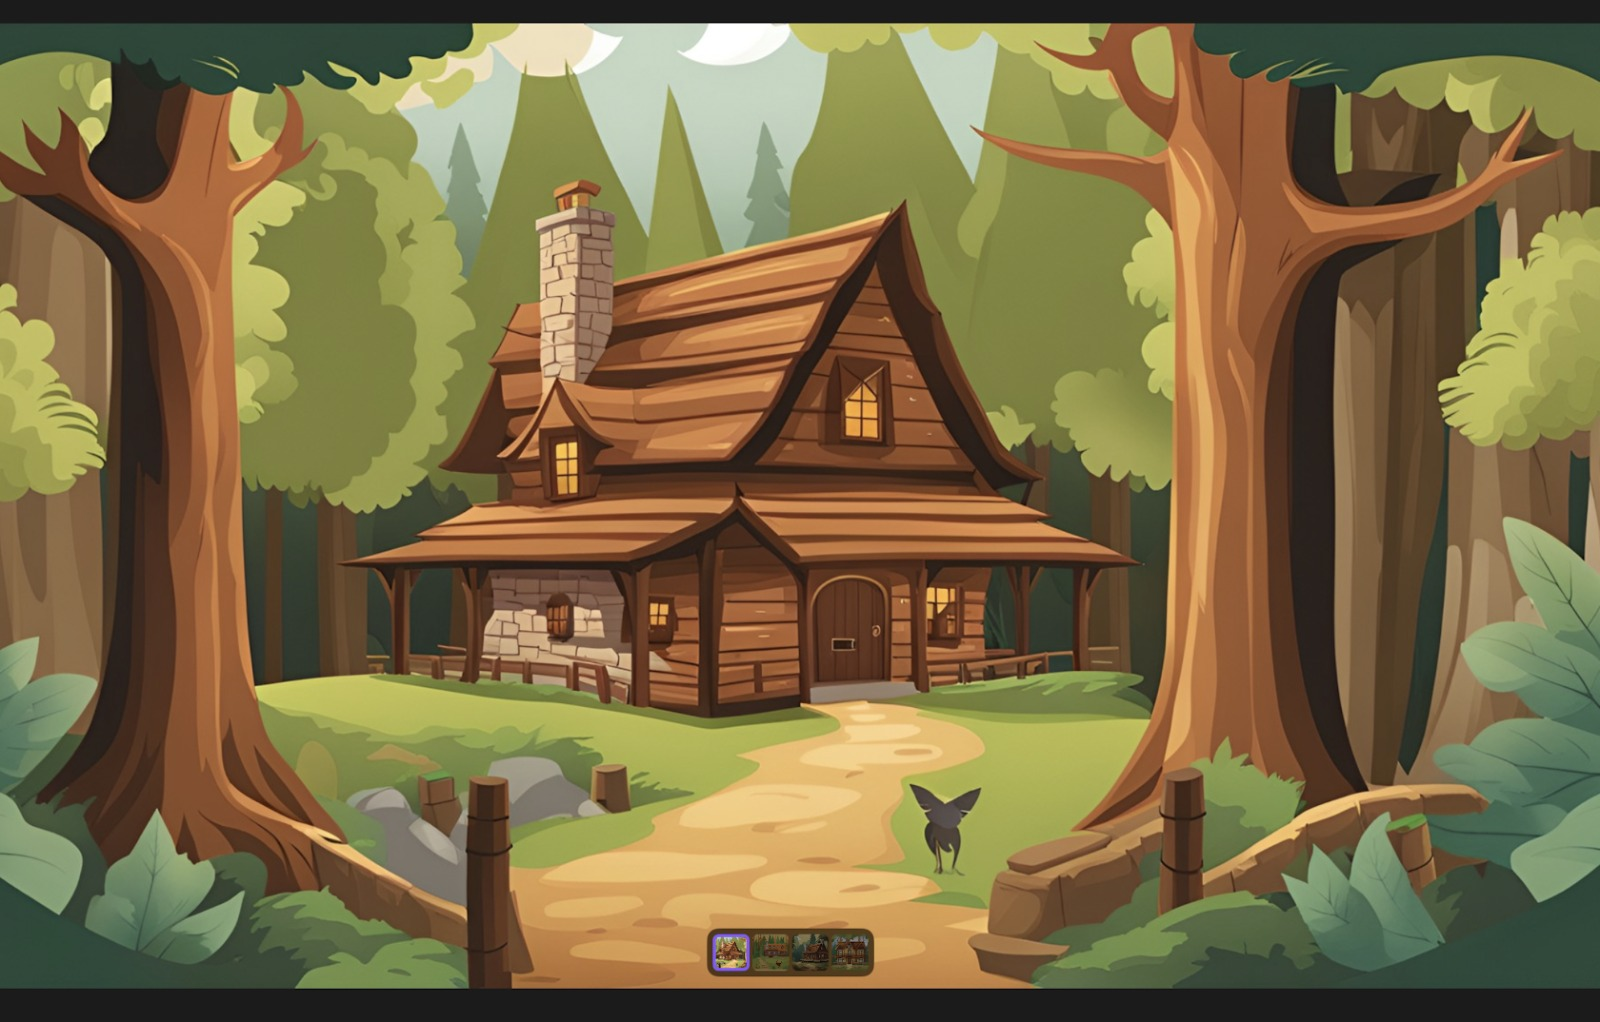
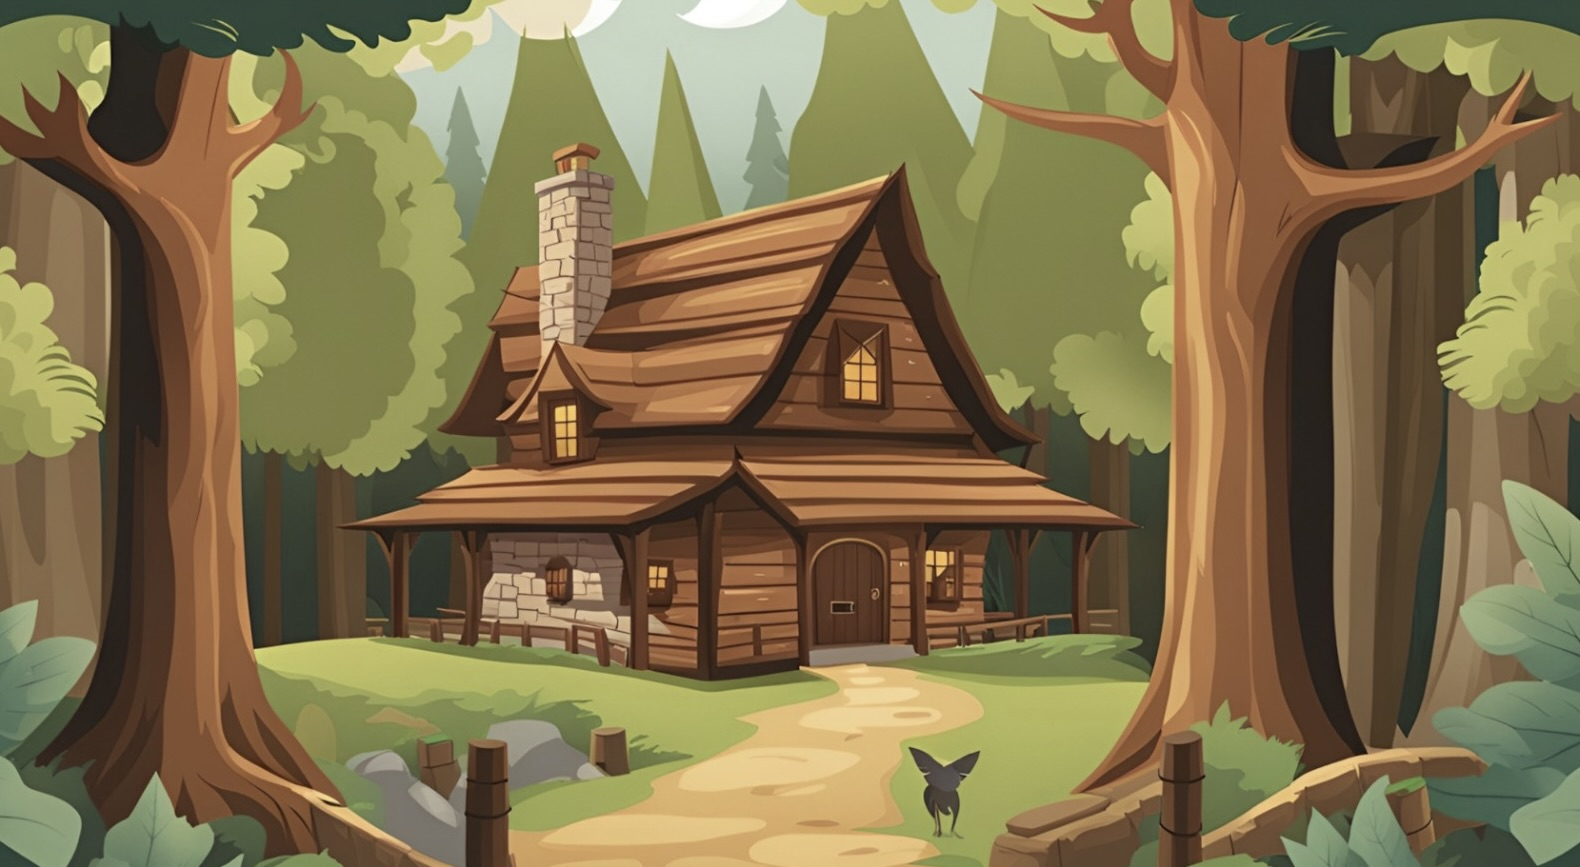
MainMenu_001
Dodanie tla, zmiana ikon i przyciskow w menu.

diff --git a/lib/src/main_menu/main_menu_screen.dart b/lib/src/main_menu/main_menu_screen.dart
@@ -22,83 +22,90 @@ class MainMenuScreen extends StatelessWidget {
     final audioController = context.watch<AudioController>();
 
     return Scaffold(
-        body: Container(
-      decoration: BoxDecoration(
-        image: DecorationImage(
-          image: AssetImage(
-              "/Users/patrykkrzemien/Documents/GitHub/Idle_Tavern_Rpg/assets/images/menu/backgroundtest.jpeg"),
-          fit: BoxFit.cover, // Dopasuj obraz do całego ekranu
+      body: Container(
+        decoration: BoxDecoration(
+          image: DecorationImage(
+            image: AssetImage(
+                "/Users/patrykkrzemien/Documents/Projekty/Idle_Tavern_Rpg/assets/images/menu/backgroundtest.jpeg"),
+            fit: BoxFit.fill,
+          ),
         ),
-      ),
-      child: ResponsiveScreen(
-        mainAreaProminence: 0.45,
-        squarishMainArea: Center(
-          child: Transform.rotate(
-            angle: -0.1,
-            child: const Text(
-              'Flutter Game Template!',
-              textAlign: TextAlign.center,
-              style: TextStyle(
-                fontFamily: 'Permanent Marker',
-                fontSize: 55,
-                height: 1,
+        child: ResponsiveScreen(
+          mainAreaProminence: 0.45,
+          squarishMainArea: Center(
+            child: Transform.rotate(
+              angle: -0.05,
+              child: SizedBox(
+                height: 800,
+                child: const Text(
+                  'Tawerna',
+                  textAlign: TextAlign.center,
+                  style: TextStyle(
+                    fontFamily: 'Permanent Marker',
+                    fontSize: 40,
+                    height: 1,
+                  ),
+                ),
               ),
             ),
           ),
-        ),
-        rectangularMenuArea: Column(
-          mainAxisAlignment: MainAxisAlignment.end,
-          children: [
-            FilledButton(
-              onPressed: () {
-                audioController.playSfx(SfxType.buttonTap);
-                GoRouter.of(context).go('/play');
-              },
-              child: const Text('Play'),
-            ),
-            _gap,
-            if (gamesServicesController != null) ...[
-              _hideUntilReady(
-                ready: gamesServicesController.signedIn,
-                child: FilledButton(
-                  onPressed: () => gamesServicesController.showAchievements(),
-                  child: const Text('Achievements'),
-                ),
-              ),
-              _gap,
-              _hideUntilReady(
-                ready: gamesServicesController.signedIn,
-                child: FilledButton(
-                  onPressed: () => gamesServicesController.showLeaderboard(),
-                  child: const Text('Leaderboard'),
-                ),
-              ),
-              _gap,
-            ],
-            FilledButton(
-              onPressed: () => GoRouter.of(context).push('/settings'),
-              child: const Text('Settings'),
-            ),
-            _gap,
-            Padding(
-              padding: const EdgeInsets.only(top: 32),
-              child: ValueListenableBuilder<bool>(
-                valueListenable: settingsController.muted,
-                builder: (context, muted, child) {
-                  return IconButton(
-                    onPressed: () => settingsController.toggleMuted(),
-                    icon: Icon(muted ? Icons.volume_off : Icons.volume_up),
-                  );
+          rectangularMenuArea: Column(
+            mainAxisAlignment: MainAxisAlignment.end,
+            children: [
+              FilledButton(
+                onPressed: () {
+                  audioController.playSfx(SfxType.buttonTap);
+                  GoRouter.of(context).go('/play');
                 },
+                child: const Text('Graj'),
               ),
-            ),
-            _gap,
-            const Text('Music by Mr Smith'),
-            _gap,
-          ],
+              _gap,
+              if (gamesServicesController != null) ...[
+                _hideUntilReady(
+                  ready: gamesServicesController.signedIn,
+                  child: FilledButton(
+                    onPressed: () => gamesServicesController.showAchievements(),
+                    child: const Text('Achievements'),
+                  ),
+                ),
+                _gap,
+                _hideUntilReady(
+                  ready: gamesServicesController.signedIn,
+                  child: FilledButton(
+                    onPressed: () => gamesServicesController.showLeaderboard(),
+                    child: const Text('Leaderboard'),
+                  ),
+                ),
+                _gap,
+              ],
+              Row(
+                mainAxisAlignment: MainAxisAlignment.end,
+                children: [
+                  SizedBox(width: 1), // Odstęp między przyciskami
+                  ValueListenableBuilder<bool>(
+                    valueListenable: settingsController.muted,
+                    builder: (context, muted, child) {
+                      return IconButton(
+                        onPressed: () => settingsController.toggleMuted(),
+                        icon: Icon(muted ? Icons.volume_off : Icons.volume_up),
+                        color: Color.fromARGB(255, 6, 27, 44),
+                      );
+                    },
+                  ),
+                  IconButton(
+                    onPressed: () => GoRouter.of(context).push('/settings'),
+                    icon: Icon(
+                      Icons.settings,
+                      color: Color.fromARGB(255, 6, 27, 44),
+                    ),
+                  ),
+                ],
+              ),
+            ],
+          ),
         ),
       ),
-    ));
+    );
   }
 
   /// Prevents the game from showing game-services-related menu items
